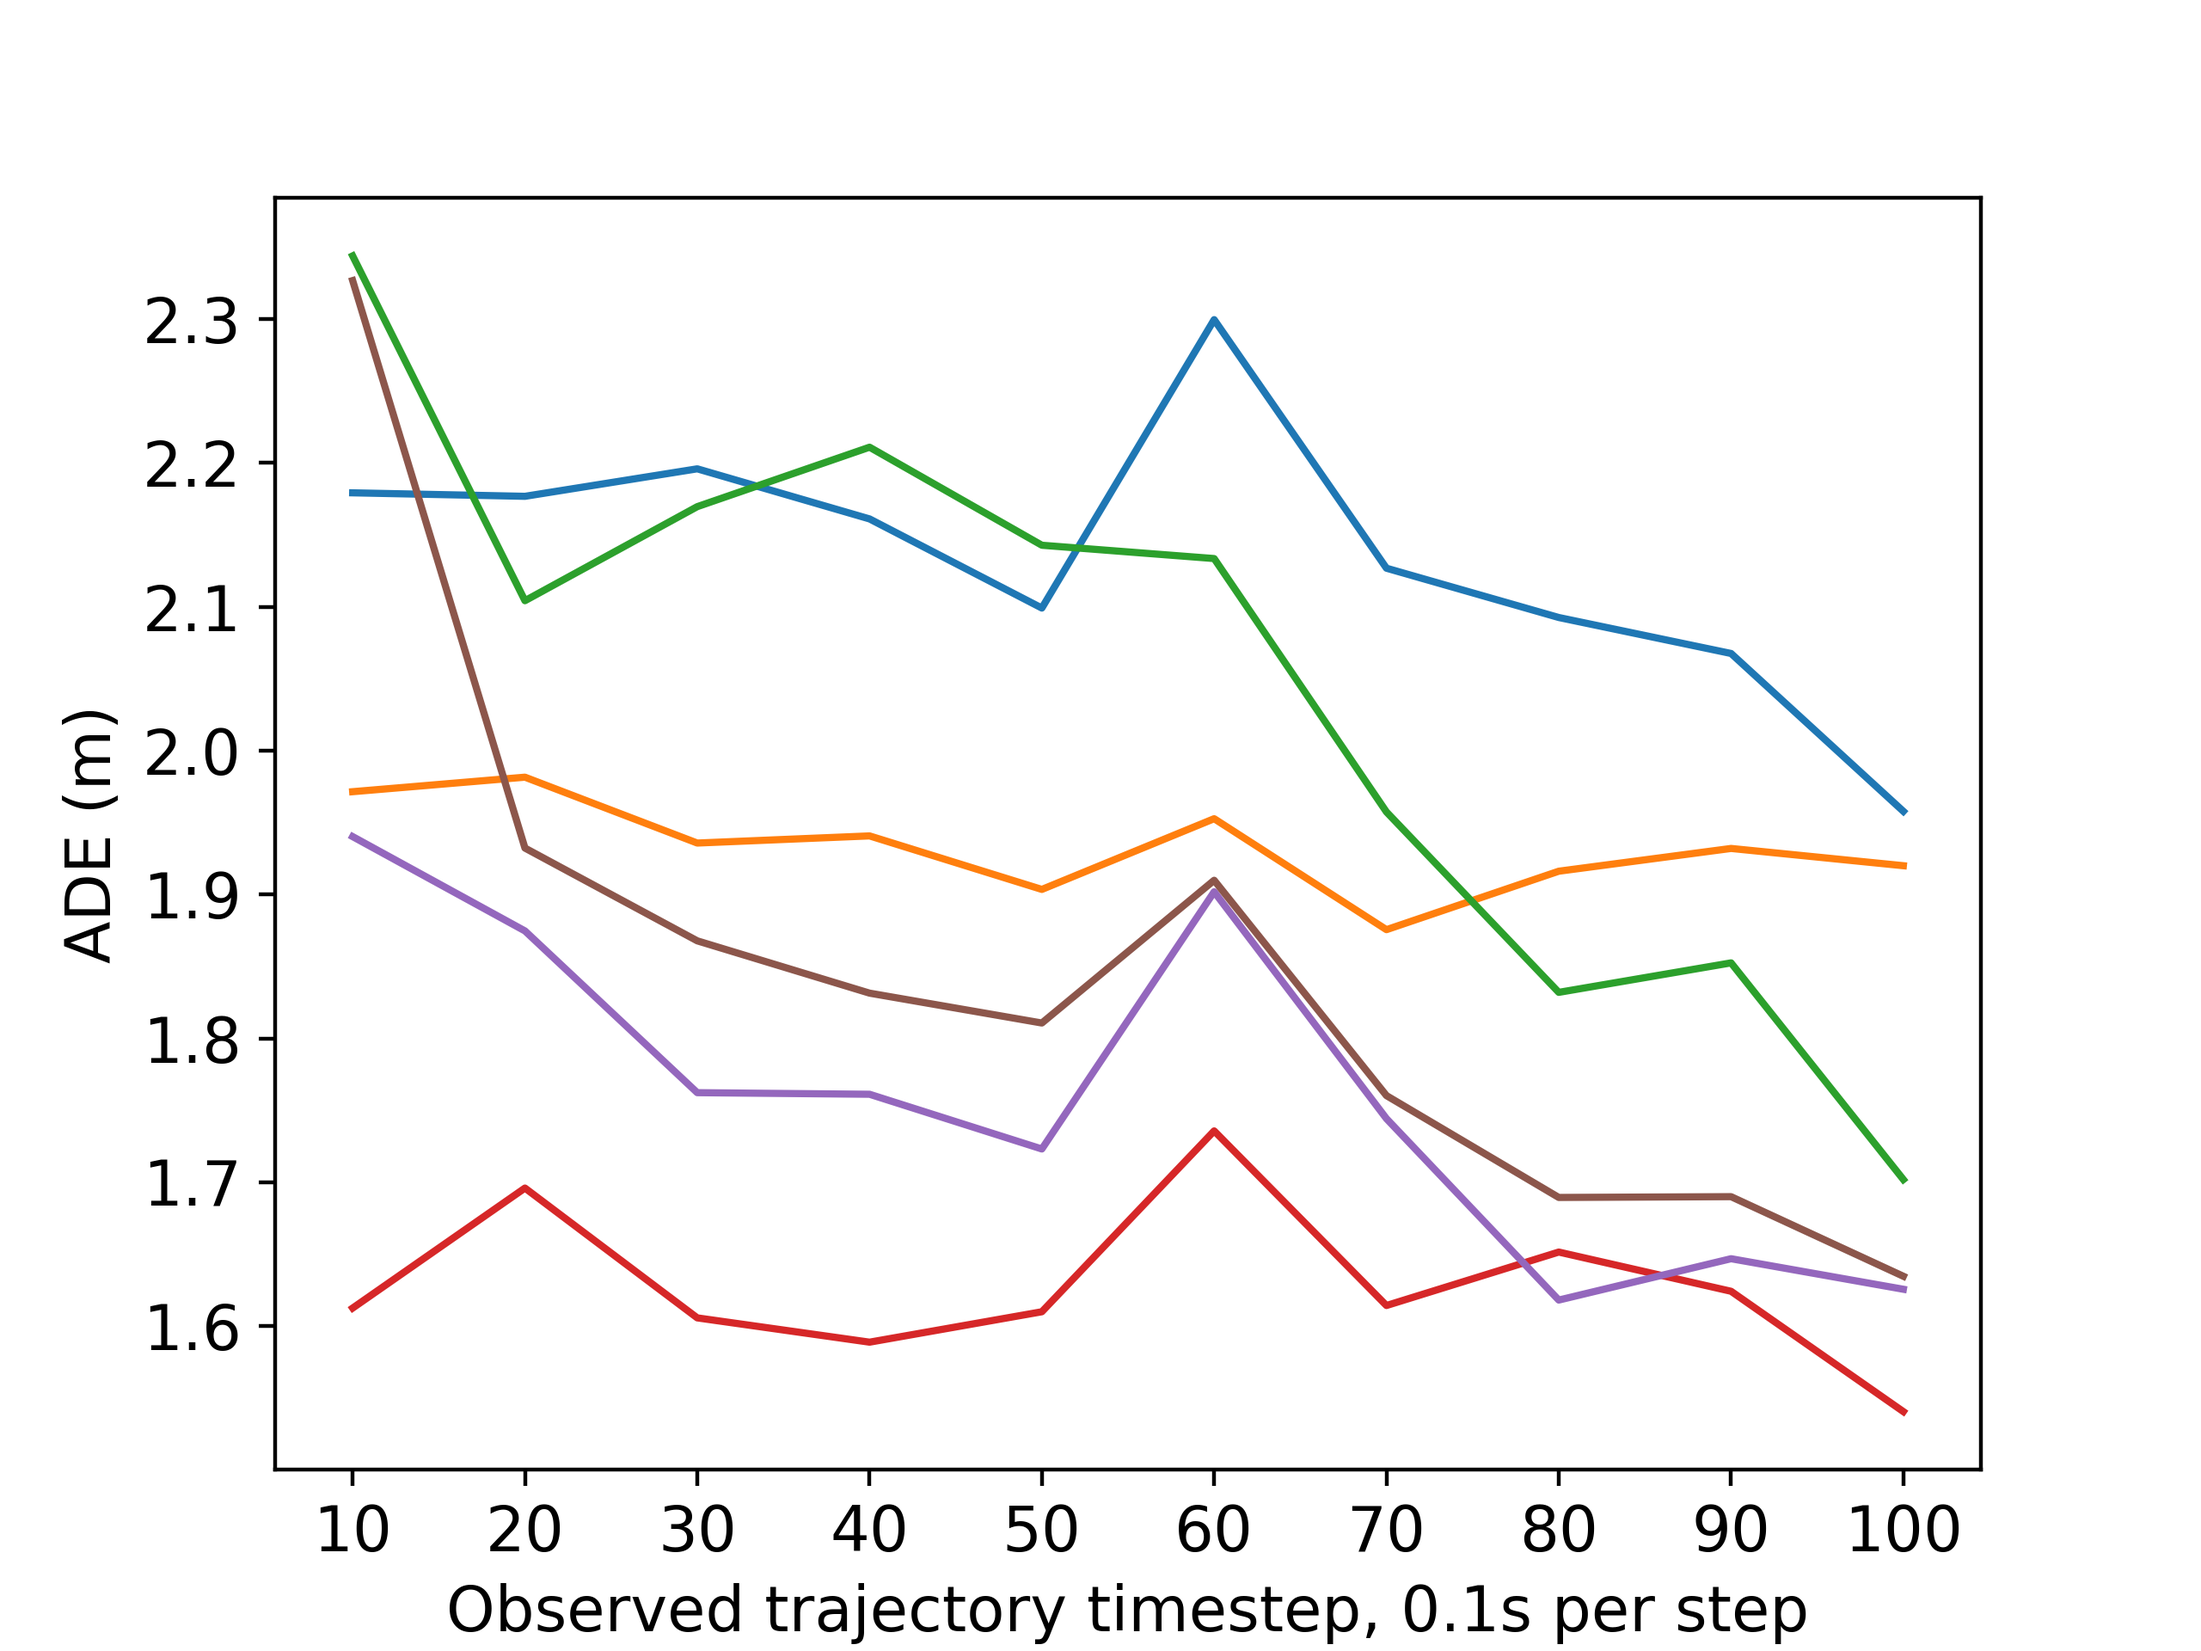
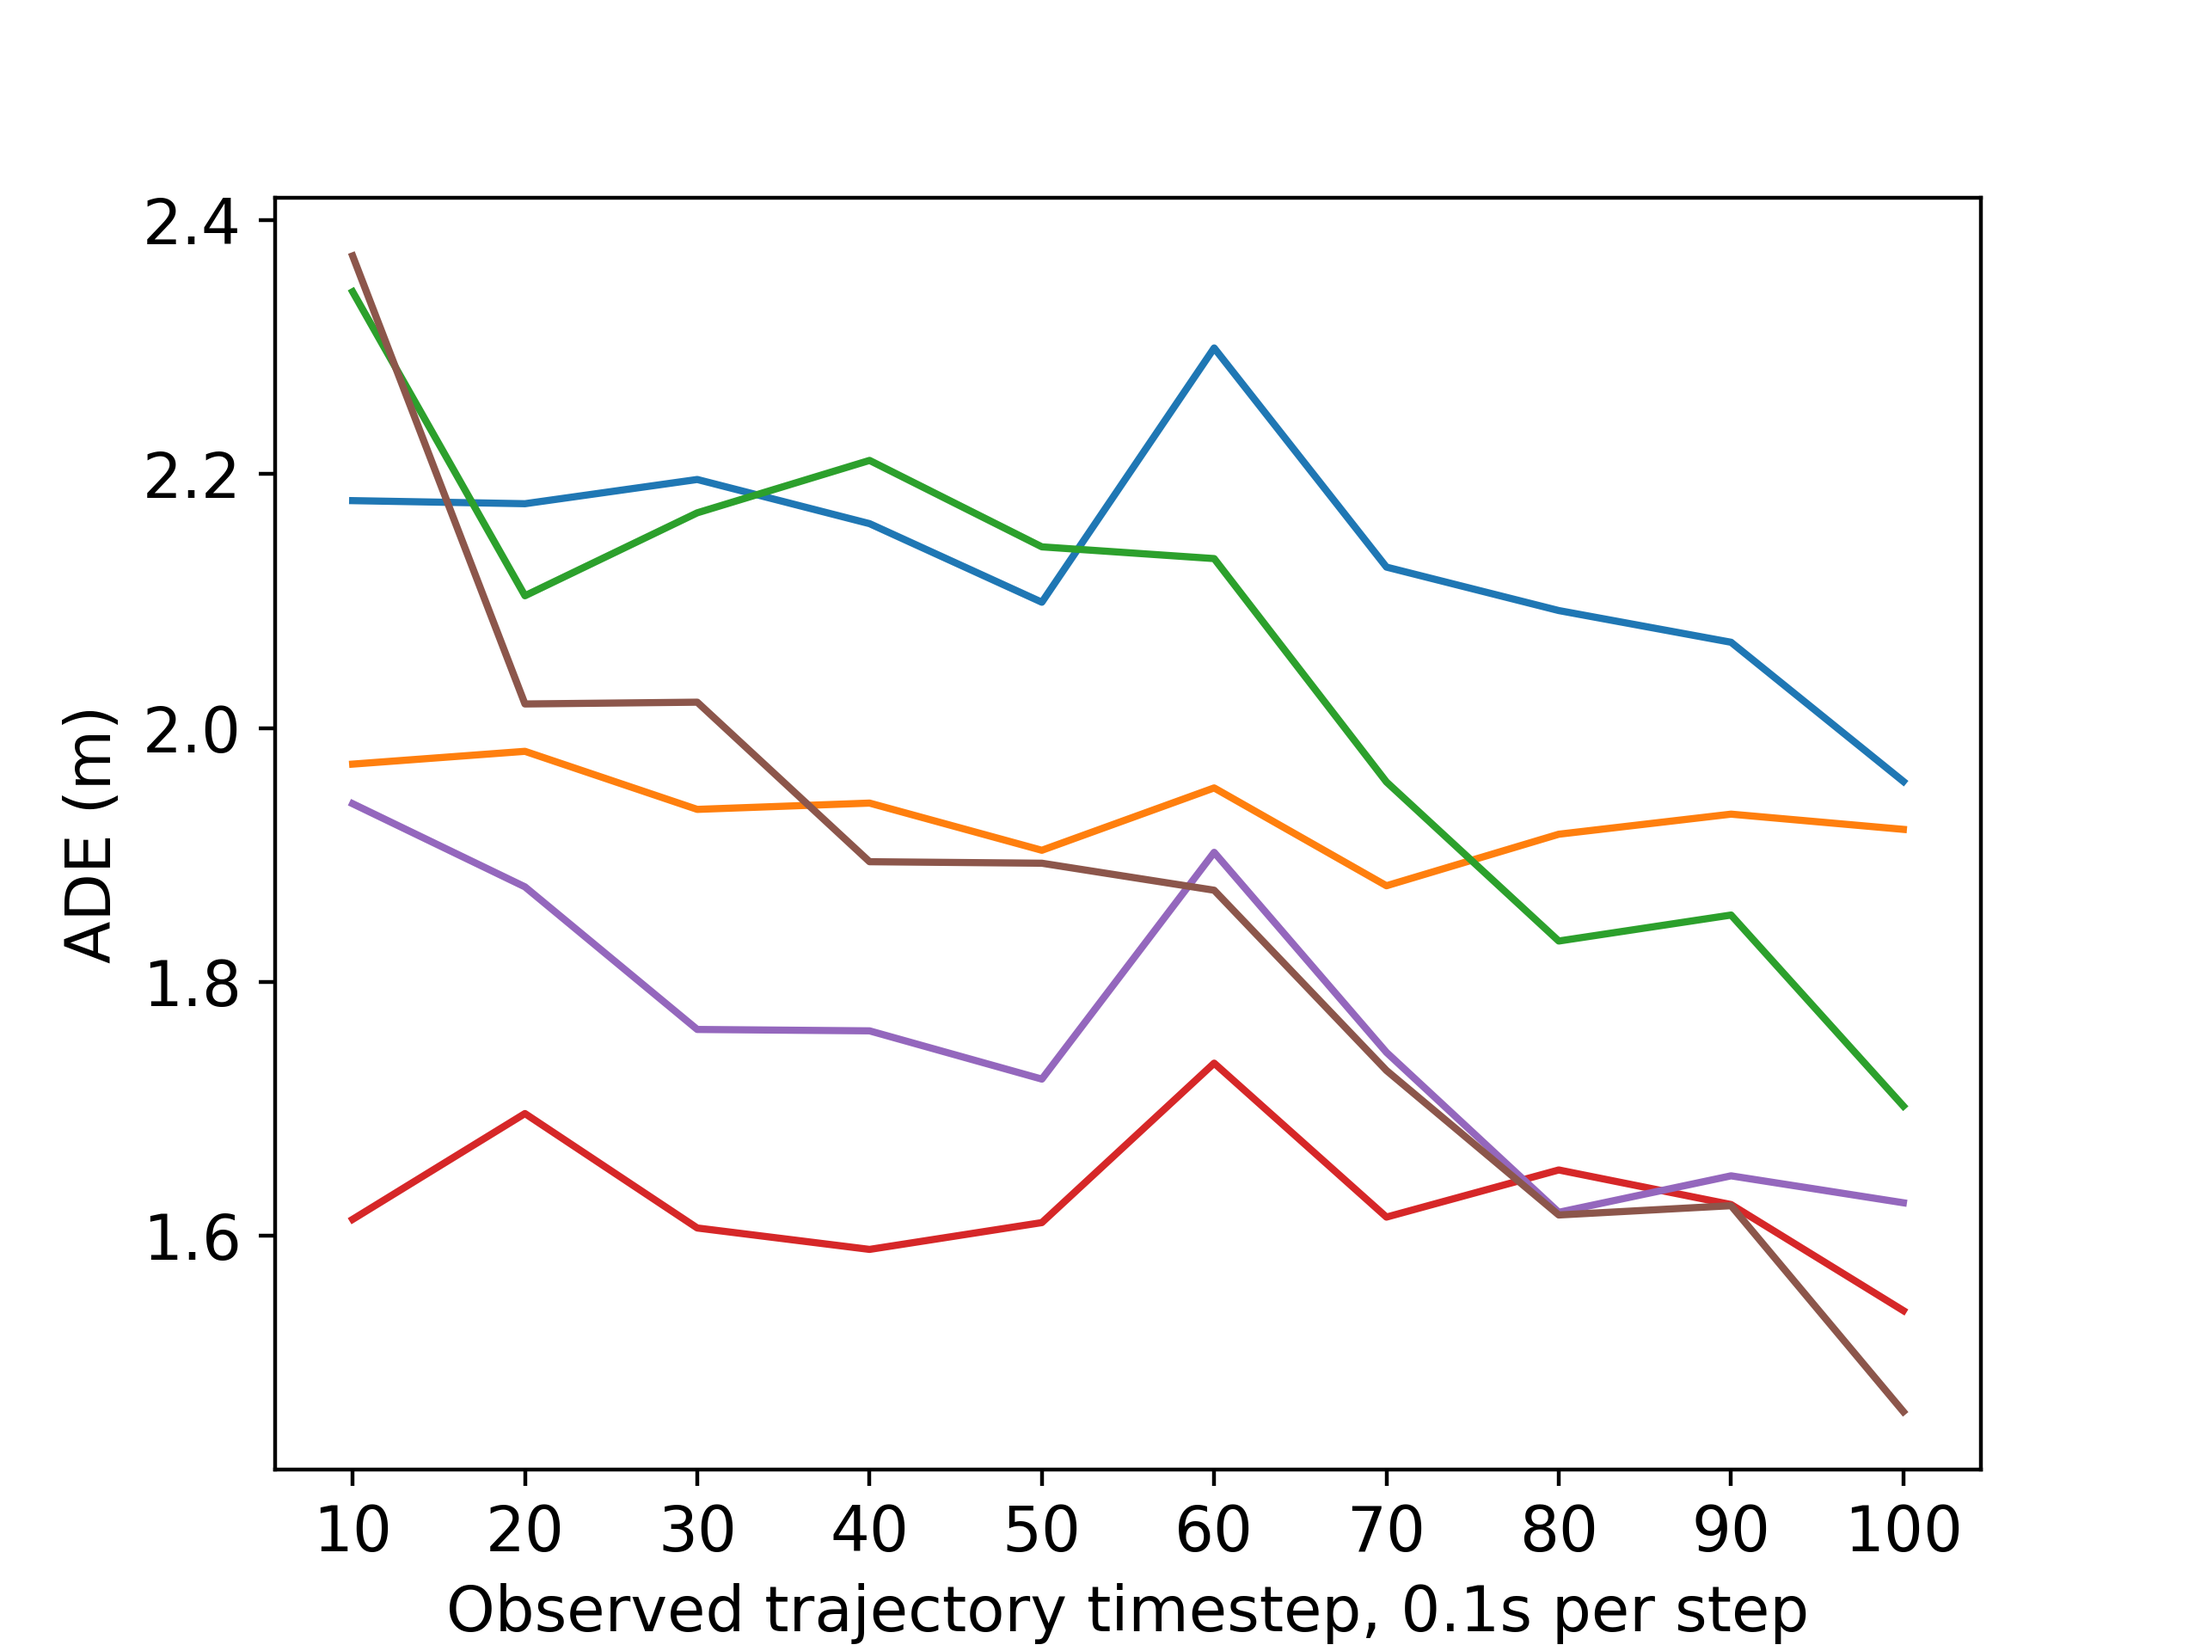
save experiments result

diff --git a/pretraj/models.py b/pretraj/models.py
@@ -234,9 +234,7 @@ def neural_network(
 
   lr = 1e-3
   # n_epoch = observe_frames
-  # n_epoch = 50
-  import math
-  n_epoch = int(math.log10(observe_frames))
+  n_epoch = 50
   opt = torch.optim.Adam(model.parameters(), lr=lr)
 
   # load from checkpoint
